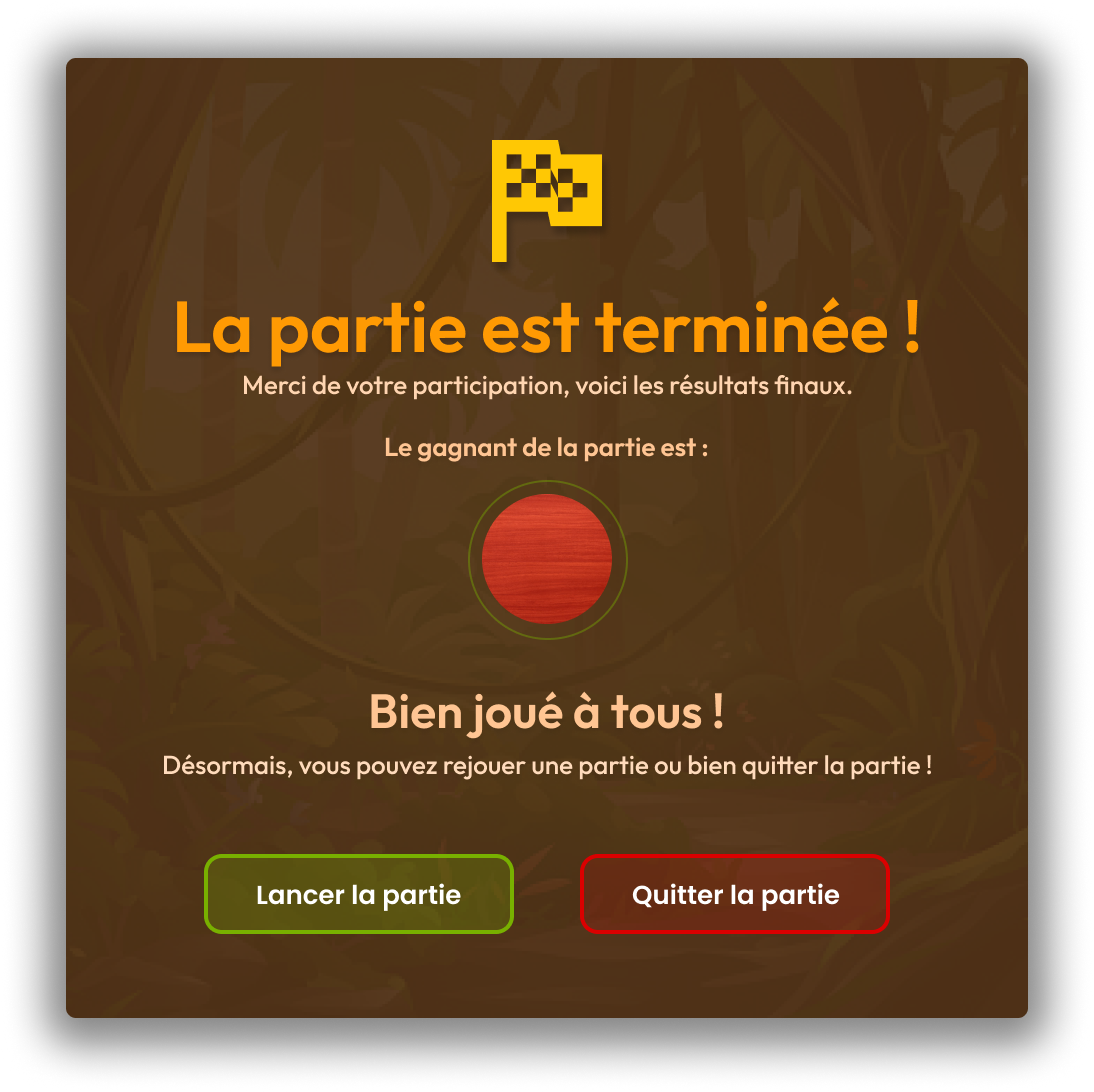
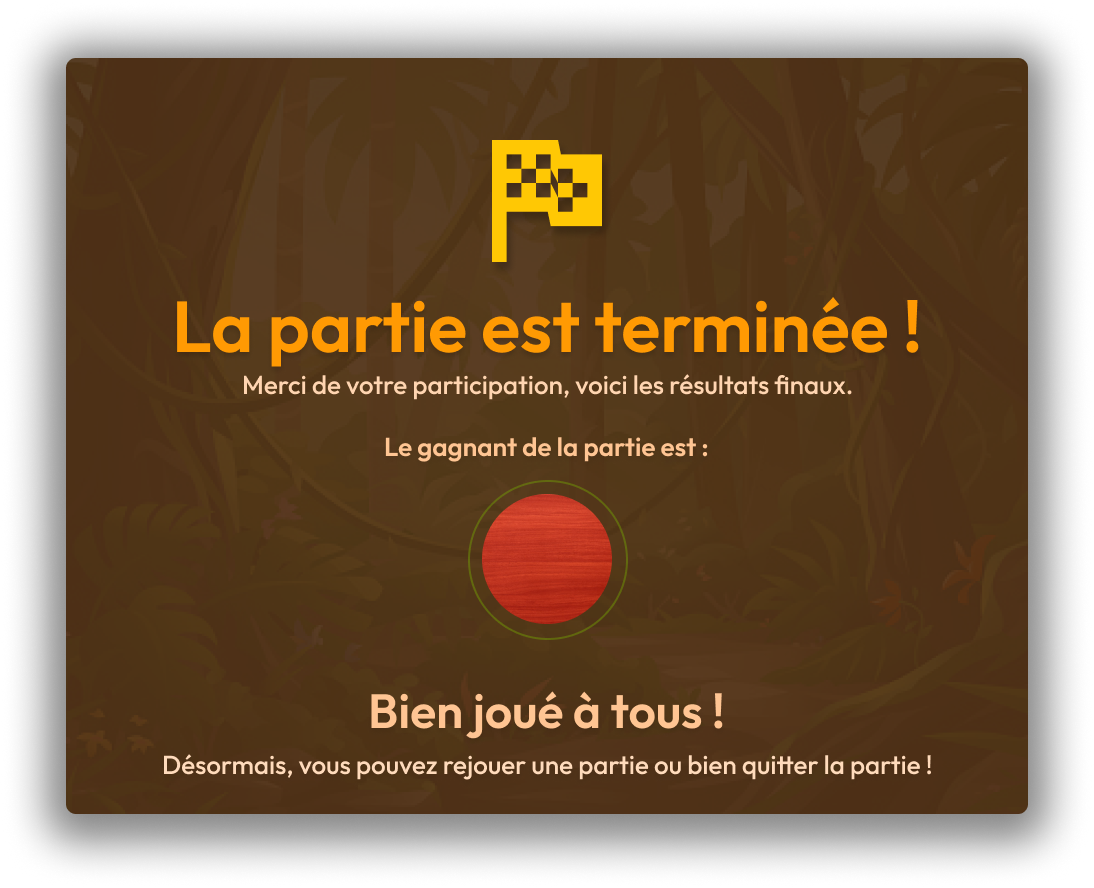
feat/Design Victoire

diff --git a/main.py b/main.py
@@ -236,39 +236,29 @@ class Board:
         self.window.maxsize(600, 650)
         self.window.minsize(600, 650)
         self.center_window()
-        self.window.config(background='#F0F0F0')
-        
-        
-        victory_canvas = Canvas(self.window, width=600, height=700)
-        victory_canvas.pack()
-
-        # Affichage du texte de victoire
-        victory_text = victory_canvas.create_text(0, 0, text=f"Victoire du joueur {self.current_player.get_player()} !", font=("Arial", 10), fill="red")
-        victory_text_bbox = victory_canvas.bbox(victory_text)
-        victory_text_width = victory_text_bbox[2] - victory_text_bbox[0]
-        victory_text_height = victory_text_bbox[3] - victory_text_bbox[1]
-        victory_canvas.move(victory_text, (600 - victory_text_width) / 2, (700 - victory_text_height) / 2)
-
         # Affichage de l'image de fond
+        victory_canvas = Canvas(self.window, width=600, height=600, bg="green", bd=0, highlightthickness=0)
         if self.current_player.get_player() == 1:
             victory_canvas.create_image(0, 0, anchor="nw", image=self.img_win_p1)
         elif self.current_player.get_player() == 2:
-            victory_canvas.create_image(0, 0, anchor="nw", image=self.img_win_p2)
+            victory_canvas.create_image(0, 20, anchor="nw", image=self.img_win_p2)
         elif self.current_player.get_player() == 3:
             victory_canvas.create_image(0, 0, anchor="nw", image=self.img_win_p3)
         elif self.current_player.get_player() == 4:
             victory_canvas.create_image(0, 0, anchor="nw", image=self.img_win_p4)
+        victory_canvas.pack()
 
-        button_frame = Frame(self.window, bg="white")
-        button_frame.pack()
+        # Ajout des boutons
+        button_frame = Frame(self.window, bg="green")
+        button_frame.pack(side="top", expand=True, fill="both")
 
-        quit_button = Button(button_frame, text="Quitter", font=("Arial", 14), fg="red", bd=0, highlightthickness=0, command=self.window.destroy)
-        quit_button.pack(side="right", padx=20, pady=20)
+        quit_button = Button(button_frame, text="Quitter", font=("Arial", 14), fg="white", bg="#DB0000", bd=2, highlightthickness=0, command=self.window.destroy)
+        quit_button.pack(side=LEFT, padx=110)
 
-        replay_button = Button(button_frame, text="Rejouer", font=("Arial", 14), fg="green", bd=0, highlightthickness=0)
-        replay_button.pack(side="left", padx=20, pady=20)
-
+        replay_button = Button(button_frame, text="Rejouer", font=("Arial", 14), fg="white", bg="#78B000", bd=2, highlightthickness=0)
+        replay_button.pack(side=LEFT, padx=100)
         
+
     def displayBoard(self): 
         self.canvas = Canvas(self.window, width=900, height=700, bg="gray")
         self.canvas.place(relx=0.5, rely=0.5, anchor=CENTER)
